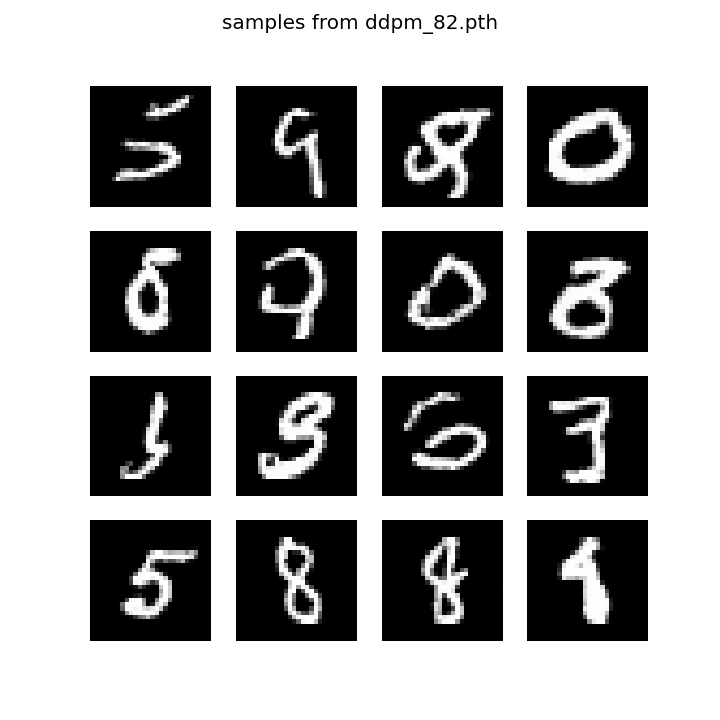
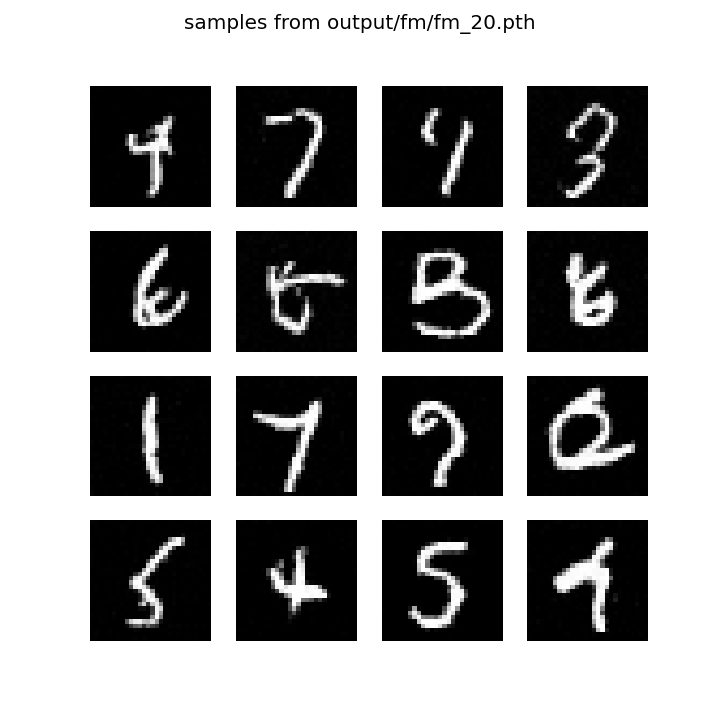
added DDIM sampling in addition to DDPM, implementing FM. Next Steps: CG, CFG

diff --git a/fm_eval.py b/fm_eval.py
@@ -1,0 +1,64 @@
+import glob, re
+import numpy as np
+import torch
+import matplotlib.pyplot as plt
+from os.path import join
+from utils import MnistDataloader
+from ddpm_unet import UNet
+
+device = torch.device("mps")
+TIME_SCALE = 1000.0   # must match flow_matching.py
+
+input_path = './input'
+(_, _), (x_test, _) = MnistDataloader(
+    join(input_path, 'train-images-idx3-ubyte/train-images-idx3-ubyte'),
+    join(input_path, 'train-labels-idx1-ubyte/train-labels-idx1-ubyte'),
+    join(input_path, 't10k-images-idx3-ubyte/t10k-images-idx3-ubyte'),
+    join(input_path, 't10k-labels-idx1-ubyte/t10k-labels-idx1-ubyte')).load_data()
+x_test = torch.from_numpy(x_test[:1024]).float().to(device)[:, None] / 127.5 - 1
+
+ckpts = sorted(glob.glob("output/fm_v2/fm_*.pth"),
+               key=lambda p: int(re.search(r"fm_(\d+)", p).group(1)))
+unet = UNet().to(device)
+
+n, steps = 16, 100
+dt = 1.0 / steps
+
+# u_t loss evaluation of checkpoints
+torch.manual_seed(0)  # same (t, x_0) draws for every checkpoint so losses are comparable
+x_0 = torch.randn_like(x_test)
+ts = torch.rand(x_test.shape[0], device=device)
+t = ts.view(-1, 1, 1, 1)
+x_t = (1-t)*x_0 + t*x_test
+us = x_test - x_0
+with torch.no_grad():
+    for ckpt in ckpts:
+        unet.load_state_dict(torch.load(ckpt, map_location=device)["ema"])
+        unet.eval()
+        loss = torch.mean((unet(x_t, ts * TIME_SCALE) - us)**2).item()
+        print(f"{ckpt}: test u_t loss = {loss:.4f}")
+
+unet.load_state_dict(torch.load(ckpts[-1], map_location=device)["ema"])
+unet.eval()
+
+
+x = torch.randn(n, 1, 28, 28, device=device)
+
+# generating
+with torch.no_grad():
+    for i in range(steps):
+        t = i * dt
+        t_batch = torch.full((n,), t, device=device)
+        v1 = unet(x, t_batch * TIME_SCALE)
+        v2 = unet(x + v1*dt, (t_batch + dt) * TIME_SCALE)
+        x = x + (v1 + v2)/2 * dt
+
+# plotting
+fig, axes = plt.subplots(4, 4, figsize=(6, 6))
+for ax, im in zip(axes.flat, x.clamp(-1, 1).cpu().numpy()[:, 0]):
+    ax.imshow(im, cmap='gray')
+    ax.axis('off')
+fig.suptitle(f"samples from {ckpts[-1]}")
+plt.savefig("samples.png", dpi=120)
+print("saved samples.png")
+plt.show()

diff --git a/flow_matching.py b/flow_matching.py
@@ -1,0 +1,60 @@
+from utils import *
+import torch
+from torch.utils.data import TensorDataset, DataLoader
+from ddpm_unet import UNet
+
+input_path = './input'
+training_images_filepath = join(input_path, 'train-images-idx3-ubyte/train-images-idx3-ubyte')
+training_labels_filepath = join(input_path, 'train-labels-idx1-ubyte/train-labels-idx1-ubyte')
+test_images_filepath = join(input_path, 't10k-images-idx3-ubyte/t10k-images-idx3-ubyte')
+test_labels_filepath = join(input_path, 't10k-labels-idx1-ubyte/t10k-labels-idx1-ubyte')
+
+mnist_dataloader = MnistDataloader(training_images_filepath, training_labels_filepath, test_images_filepath, test_labels_filepath)
+(x_train, y_train), (x_test, y_test) = mnist_dataloader.load_data()
+
+device = torch.device("mps")
+TIME_SCALE = 1000.0   # t in [0,1] -> match the integer-timestep range the time embedding was built for
+
+x_tensor = torch.from_numpy(x_train).float().to(device) / 127.5 - 1   # scale to [-1, 1]
+x_tensor = x_tensor[:,None,:,:]
+
+dataset = TensorDataset(x_tensor)
+loader = DataLoader(dataset, batch_size=128, shuffle=True)
+
+n_epochs = 128
+ckpt_dir = "output/fm_v2"   # new dir: old output/fm checkpoints used the un-scaled time embedding and are incompatible
+
+unet = UNet().to(device)
+optimizer = torch.optim.Adam(unet.parameters(), lr=1e-4)
+
+ema_decay = 0.999
+ema = {k: v.detach().clone() for k, v in unet.state_dict().items()}
+
+for epoch in range(n_epochs):
+    for batch, (x_1s,) in enumerate(loader):
+        x_0s = torch.randn_like(x_1s)
+        ts = torch.sigmoid(torch.randn(x_1s.shape[0], device=device))  # logit-normal t, concentrated mid-trajectory
+        t = ts.view(-1, 1, 1, 1)
+        x_ts = (1-t)*x_0s + t*x_1s
+        u_preds = unet(x_ts, ts * TIME_SCALE)
+        us = x_1s - x_0s
+        loss = torch.mean((u_preds - us)**2)
+        optimizer.zero_grad()
+        loss.backward()
+        optimizer.step()
+        with torch.no_grad():   # EMA of weights
+            for k, v in unet.state_dict().items():
+                if v.dtype.is_floating_point:
+                    ema[k].mul_(ema_decay).add_(v, alpha=1-ema_decay)
+                else:
+                    ema[k].copy_(v)
+        if batch % 100 == 0:
+            print(f"epoch {epoch} batch {batch} loss {loss.item():.4f}")
+    torch.save({"model": unet.state_dict(), "ema": ema}, join(ckpt_dir, f"fm_{epoch}.pth"))
+
+
+
+
+
+
+

diff --git a/ddpm_eval.py b/ddpm_eval.py
@@ -1,0 +1,58 @@
+import glob, re
+import numpy as np
+import torch
+import matplotlib.pyplot as plt
+from os.path import join
+from utils import MnistDataloader
+from ddpm_unet import UNet
+
+device = torch.device("mps")
+T = 1000
+betas = torch.from_numpy(np.linspace(1e-4, 0.02, T)).float().to(device)
+alphas = 1 - betas
+alpha_bars = torch.cumprod(alphas, 0)
+
+input_path = './input'
+(_, _), (x_test, _) = MnistDataloader(
+    join(input_path, 'train-images-idx3-ubyte/train-images-idx3-ubyte'),
+    join(input_path, 'train-labels-idx1-ubyte/train-labels-idx1-ubyte'),
+    join(input_path, 't10k-images-idx3-ubyte/t10k-images-idx3-ubyte'),
+    join(input_path, 't10k-labels-idx1-ubyte/t10k-labels-idx1-ubyte')).load_data()
+x_test = torch.from_numpy(x_test[:1024]).float().to(device)[:, None] / 127.5 - 1
+
+ckpts = sorted(glob.glob("output/ddpm/ddpm_*.pth"), key=lambda p: int(re.search(r"ddpm_(\d+)", p).group(1)))
+unet = UNet().to(device)
+
+# noise-prediction MSE on held-out test images, per checkpoint
+torch.manual_seed(0)  # same (t, eps) draws for every checkpoint so MSEs are comparable
+ts = torch.randint(1, T+1, (x_test.shape[0],), device=device)
+eps = torch.randn_like(x_test)
+ab = alpha_bars[ts-1].view(-1, 1, 1, 1)
+x_t = ab.sqrt()*x_test + (1-ab).sqrt()*eps
+with torch.no_grad():
+    for ckpt in ckpts:
+        unet.load_state_dict(torch.load(ckpt, map_location=device))
+        unet.eval()
+        mse = torch.mean((unet(x_t, ts) - eps)**2).item()
+        print(f"{ckpt}: test noise-pred MSE = {mse:.4f}")
+
+# sample a 4x4 grid from the latest checkpoint
+n = 16
+x = torch.randn(n, 1, 28, 28, device=device)
+with torch.no_grad():
+    for t in range(T, 0, -1):
+        t_batch = torch.full((n,), t, device=device)
+        pred = unet(x, t_batch)
+        a, ab = alphas[t-1], alpha_bars[t-1]
+        x = (x - (1-a)/torch.sqrt(1-ab)*pred) / torch.sqrt(a)
+        if t > 1:
+            x = x + torch.sqrt(betas[t-1])*torch.randn_like(x)
+
+fig, axes = plt.subplots(4, 4, figsize=(6, 6))
+for ax, im in zip(axes.flat, x.clamp(-1, 1).cpu().numpy()[:, 0]):
+    ax.imshow(im, cmap='gray')
+    ax.axis('off')
+fig.suptitle(f"samples from {ckpts[-1]}")
+plt.savefig("samples.png", dpi=120)
+print("saved samples.png")
+plt.show()